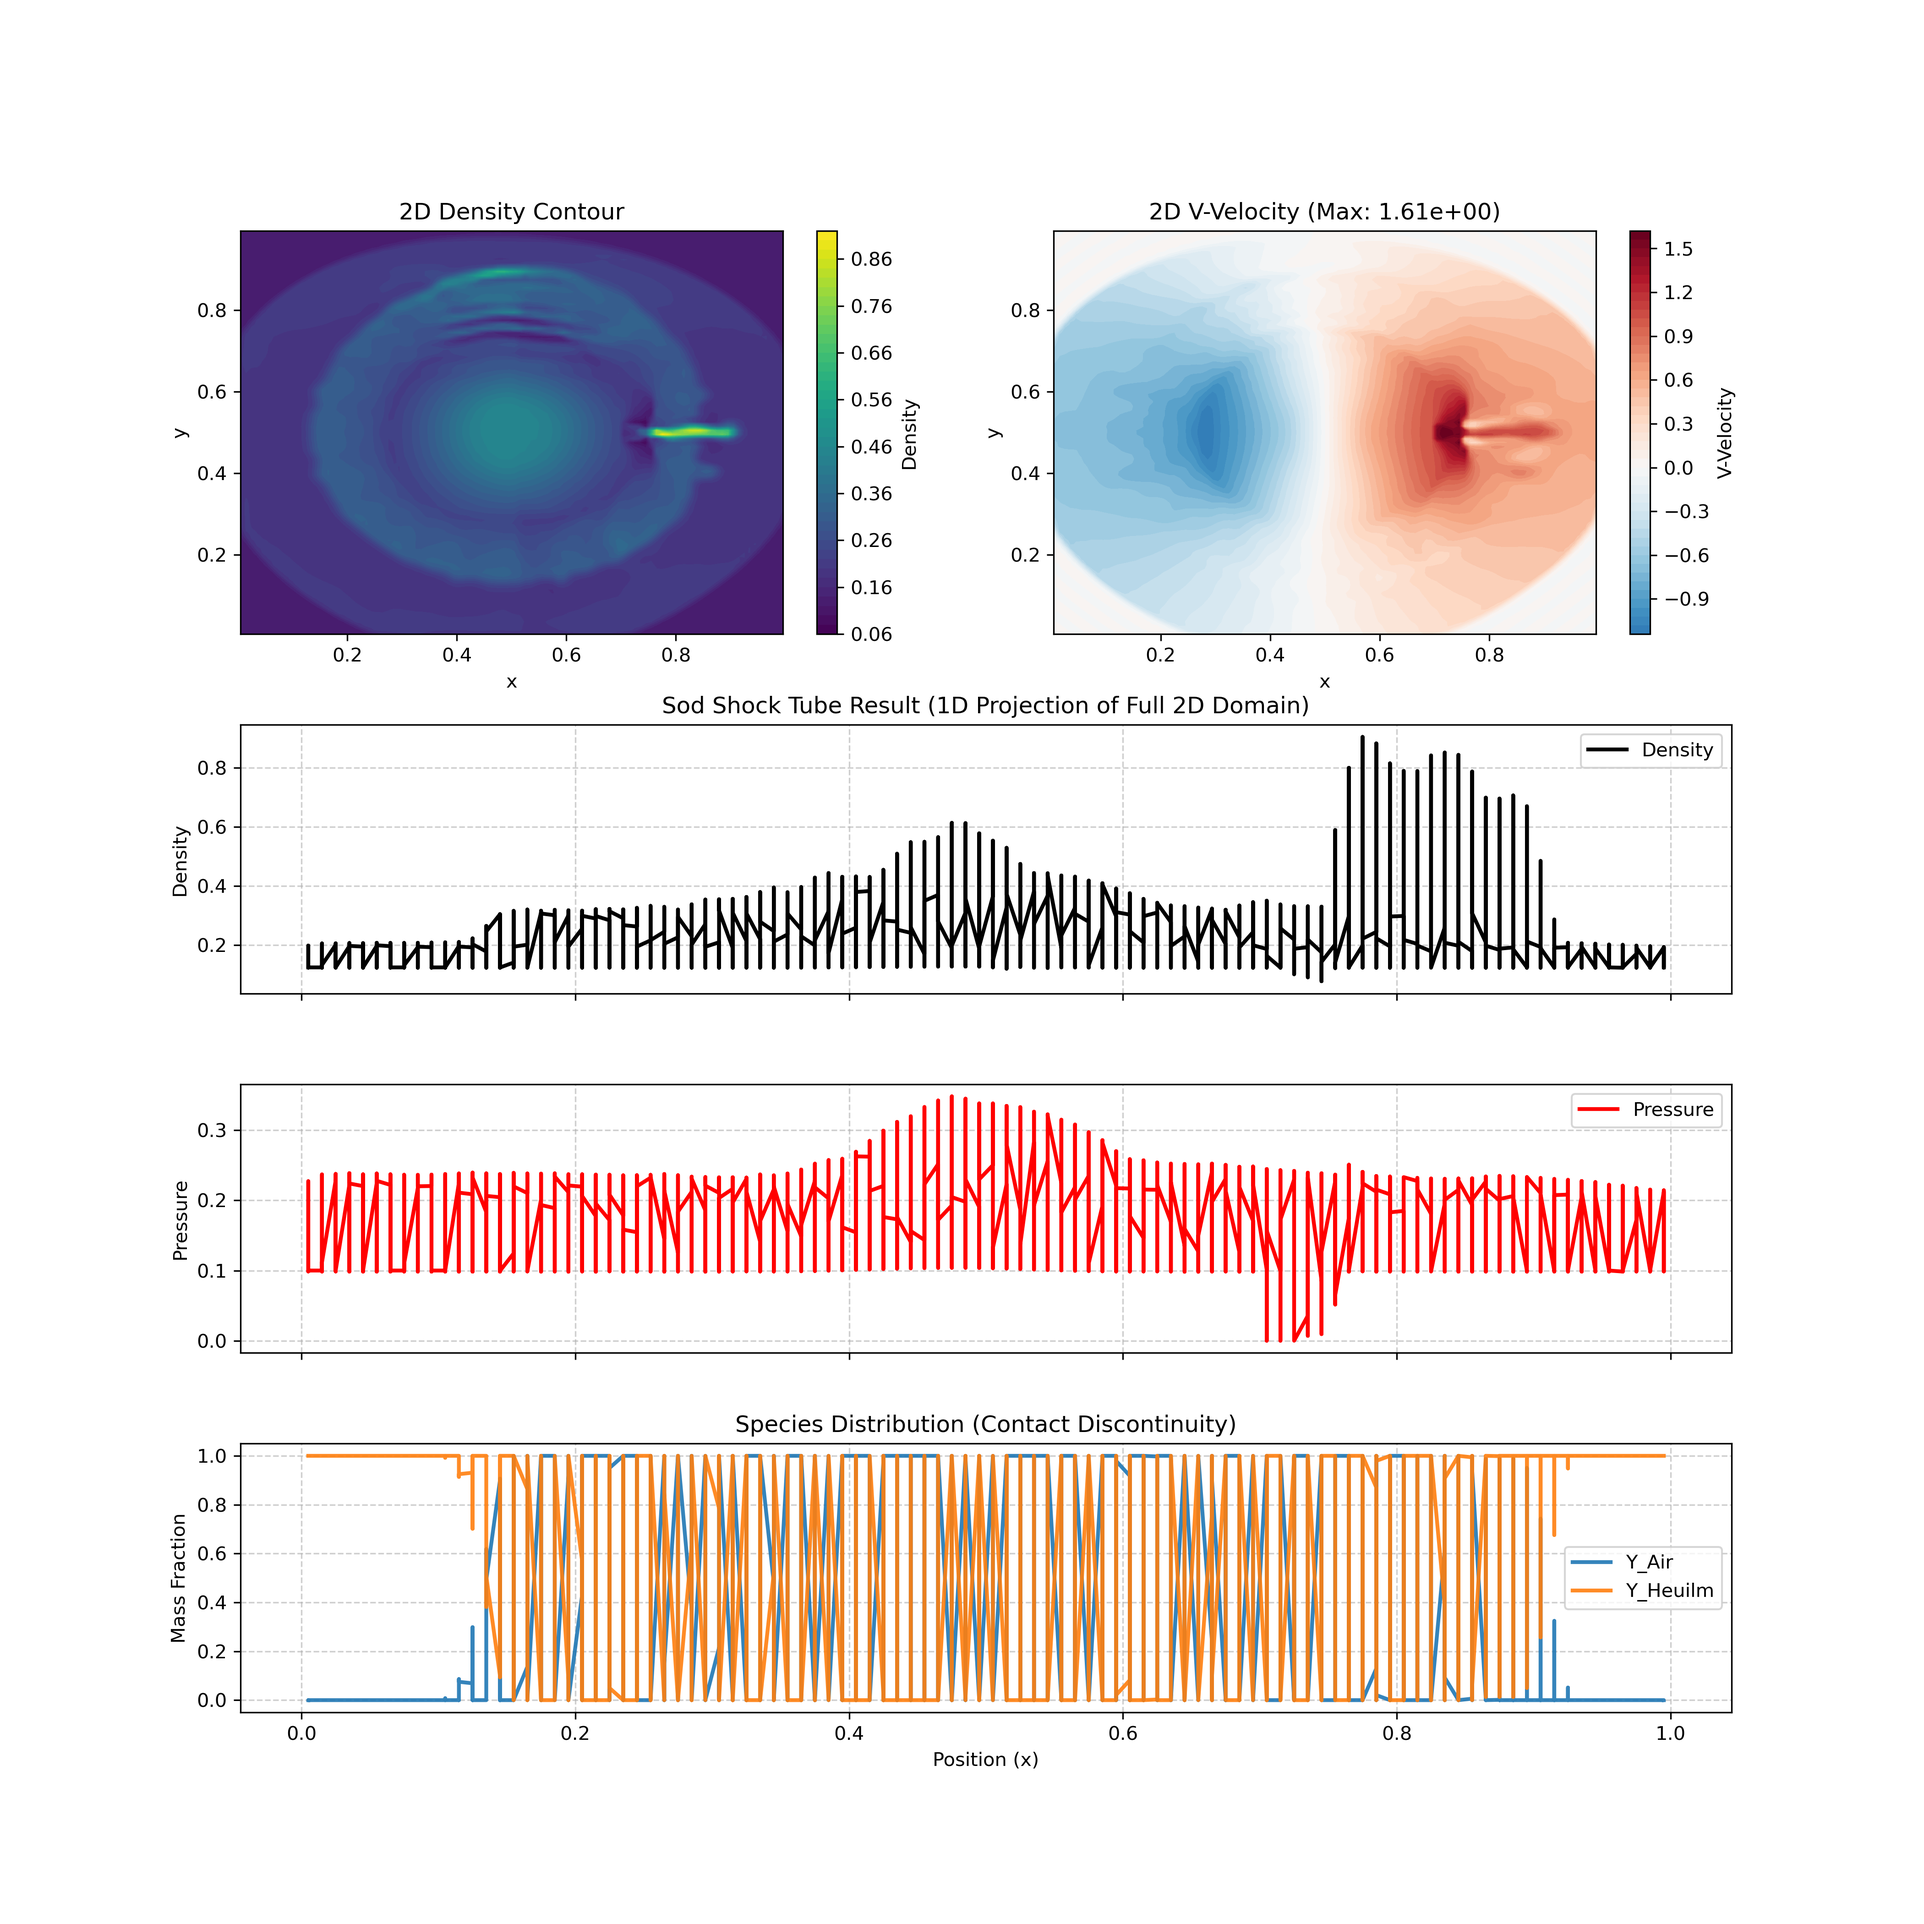
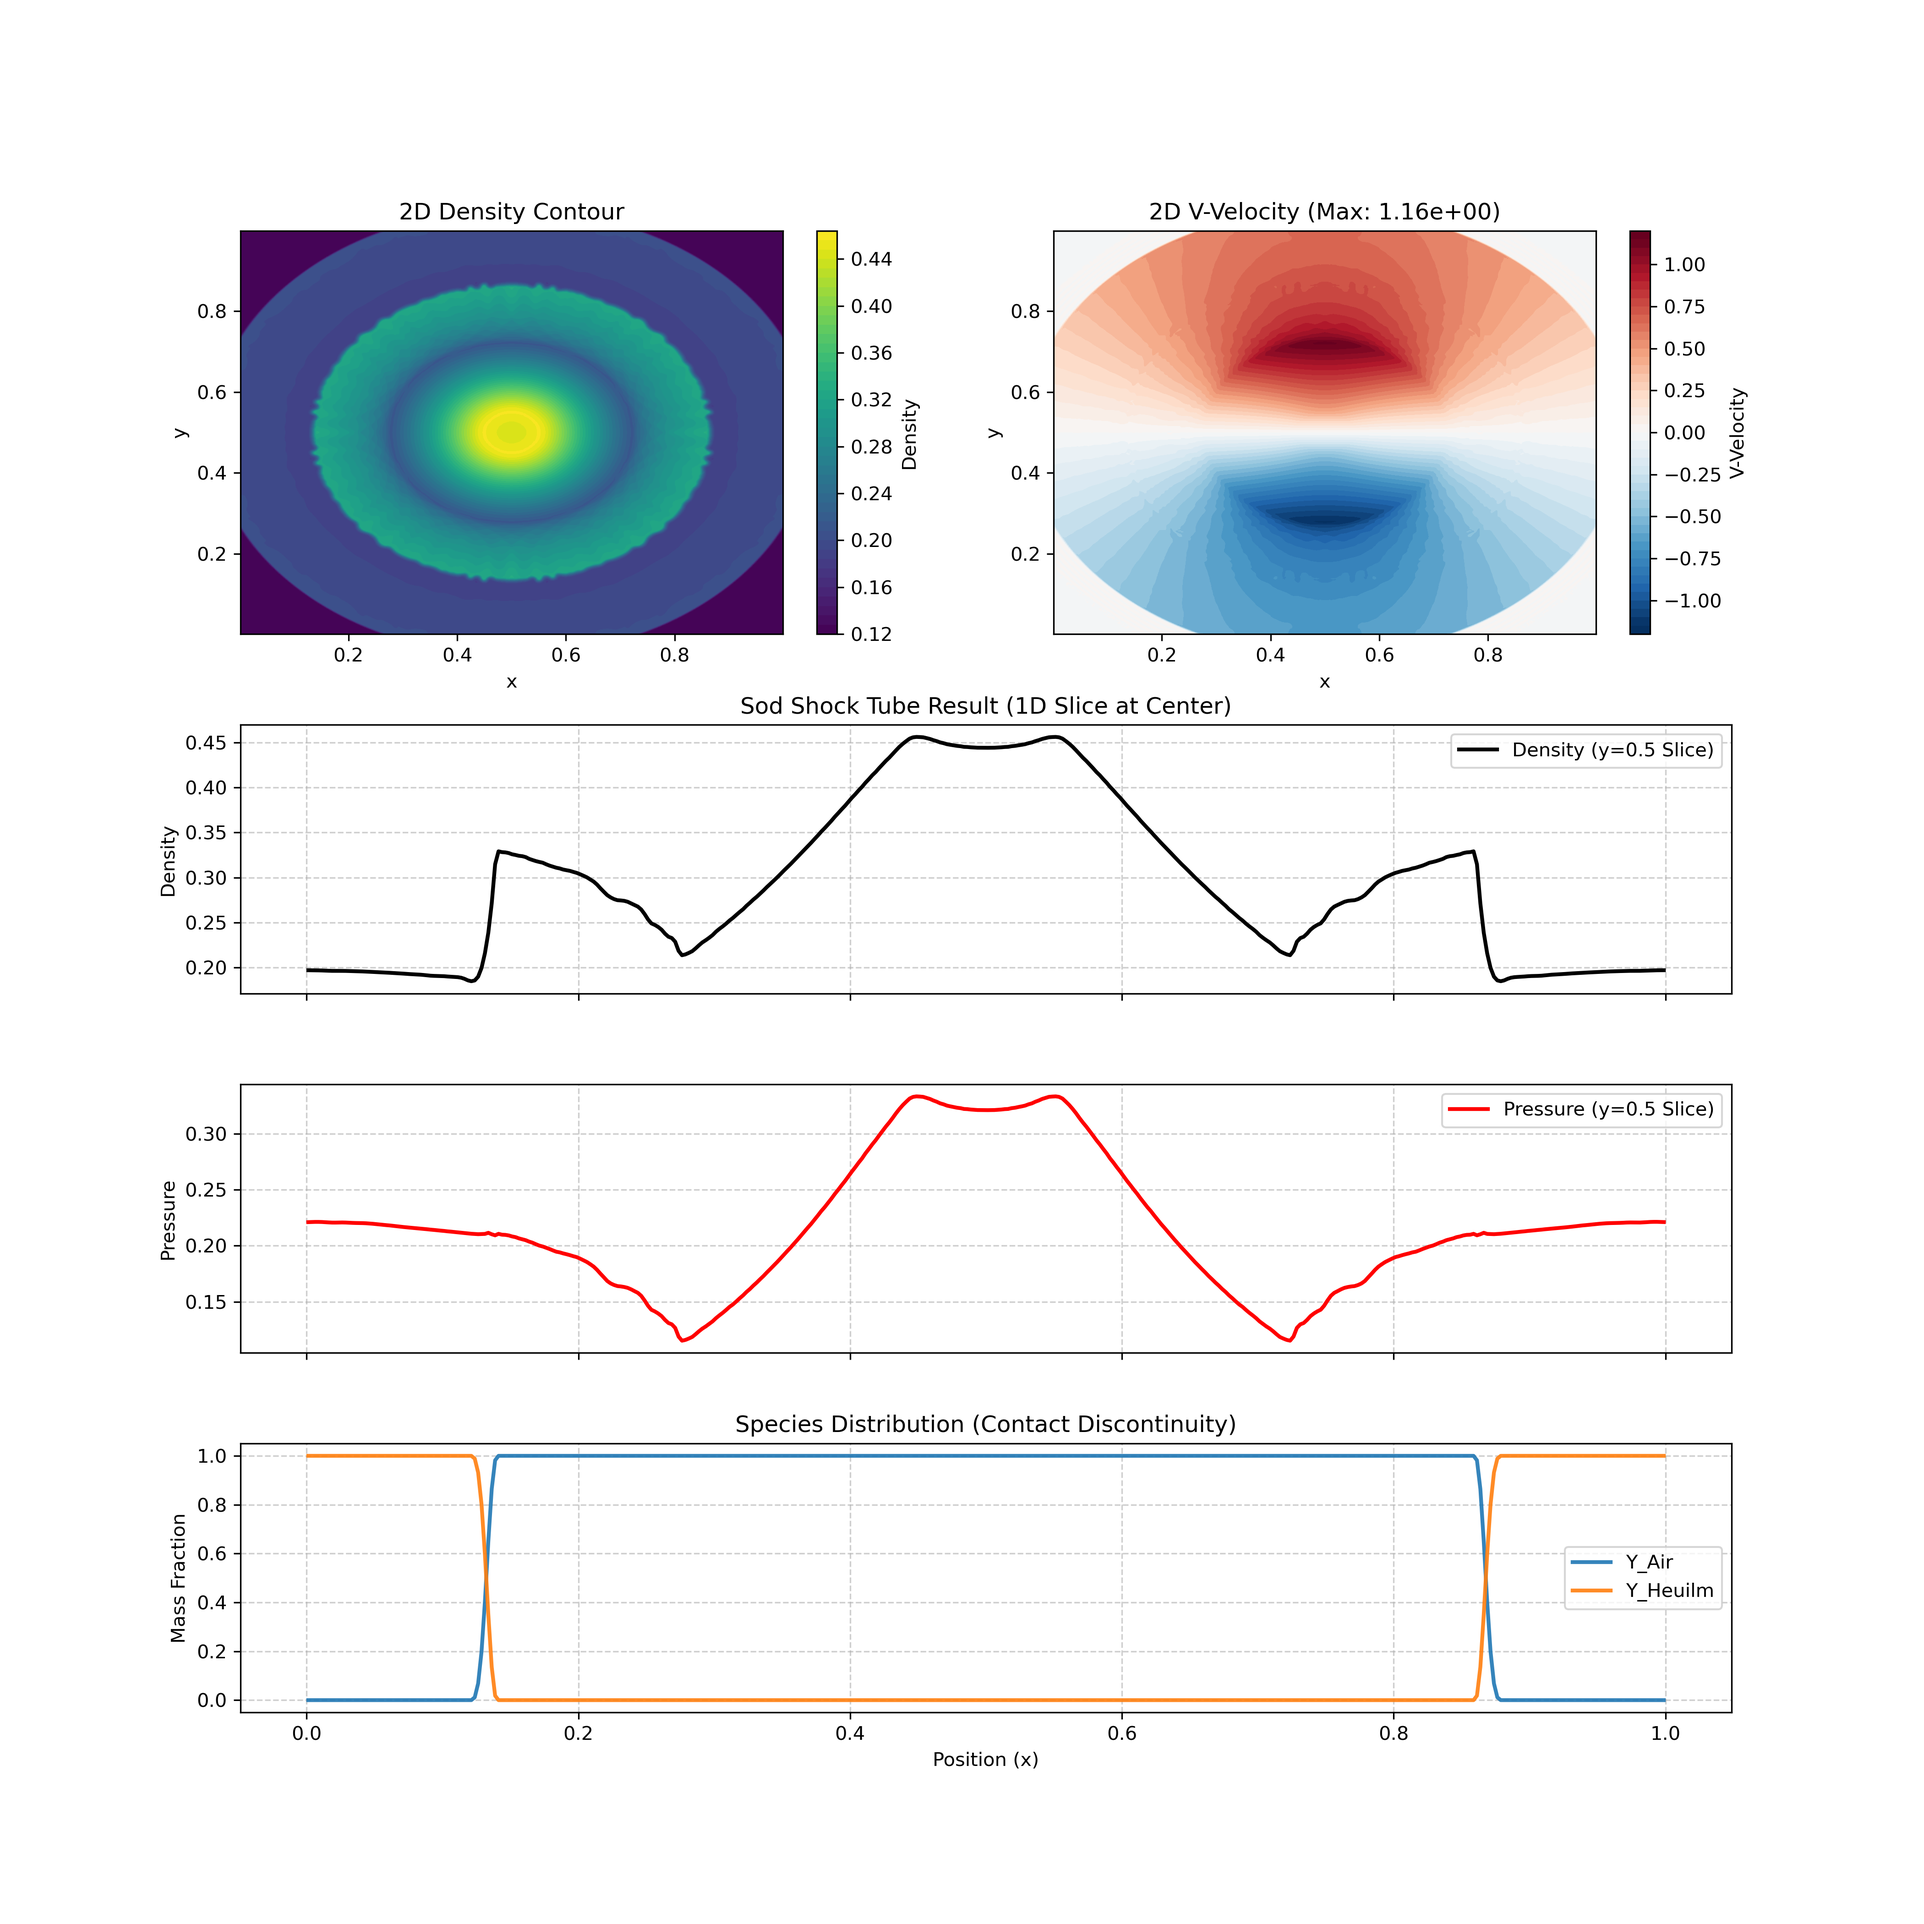
fixed 2 componets R mixed error of EOS

diff --git a/wave_plot.py b/wave_plot.py
@@ -49,21 +49,33 @@ ax1.set_ylabel("y")
 
 ax2 = fig.add_subplot(gs[0, 1])
 if 'v' in df.columns:
-    grid_v = df.pivot(index='y_round', columns='x_round', values='u')
+    grid_v = df.pivot(index='y_round', columns='x_round', values='v')
     v_max = max(abs(grid_v.values.max()), abs(grid_v.values.min()), 1e-10) 
     c2 = ax2.contourf(X, Y, grid_v.values, levels=50, cmap='RdBu_r', vmin=-v_max, vmax=v_max)
     fig.colorbar(c2, ax=ax2, label='V-Velocity')
     ax2.set_title(f"2D V-Velocity (Max: {grid_v.values.max():.2e})")
+
 ax2.set_xlabel("x")
 ax2.set_ylabel("y")
+
+# ==========================================
+# 独立的数据切片提取阶段 (不要放在画图逻辑里面)
+# ==========================================
+center_y = 0.5
+# 找到与 center_y 最接近的 y_round 值（防止浮点精度对不齐）
+closest_y = df['y_round'].iloc[(df['y_round'] - center_y).abs().argmin()]
+
+# 只筛选出这一条切片上的数据，并按 x 排序
+df_slice = df[df['y_round'] == closest_y].sort_values(by='x')
 
 # ==========================================
 # 下半部分：1D 平滑构图 (单轴、全计算域)
 # ==========================================
 # === 1. 密度 ===
 ax3 = fig.add_subplot(gs[1, :])
-ax3.plot(df_sorted['x'], df_sorted['rho'], 'k-', linewidth=2, label='Density')
-ax3.set_title("Sod Shock Tube Result (1D Projection of Full 2D Domain)")
+# 使用 df_slice 而不是 df_sorted
+ax3.plot(df_slice['x'], df_slice['rho'], 'k-', linewidth=2, label='Density (y=0.5 Slice)')
+ax3.set_title("Sod Shock Tube Result (1D Slice at Center)")
 ax3.set_ylabel("Density")
 ax3.grid(True, linestyle='--', alpha=0.6)
 ax3.legend(loc='upper right')
@@ -72,7 +84,7 @@ ax3.legend(loc='upper right')
 # 共享 X 轴，使得拖动或缩放时能对齐
 ax4 = fig.add_subplot(gs[2, :], sharex=ax3)
 if 'p' in df.columns:
-    ax4.plot(df_sorted['x'], df_sorted['p'], 'r-', linewidth=2, label='Pressure')
+    ax4.plot(df_slice['x'], df_slice['p'], 'r-', linewidth=2, label='Pressure (y=0.5 Slice)')
 ax4.set_ylabel("Pressure")
 ax4.grid(True, linestyle='--', alpha=0.6)
 ax4.legend(loc='upper right')
@@ -82,7 +94,7 @@ ax5 = fig.add_subplot(gs[3, :], sharex=ax3)
 colors = ['tab:blue', 'tab:orange', 'tab:green', 'tab:purple']
 for i, col in enumerate(species_cols):
     color = colors[i % len(colors)]
-    ax5.plot(df_sorted['x'], df_sorted[col], '-', linewidth=2, color=color, label=col, alpha=0.9)
+    ax5.plot(df_slice['x'], df_slice[col], '-', linewidth=2, color=color, label=col, alpha=0.9)
 
 ax5.set_title("Species Distribution (Contact Discontinuity)")
 ax5.set_ylabel("Mass Fraction")
@@ -97,7 +109,7 @@ plt.setp(ax4.get_xticklabels(), visible=False)
 
 # --- 4. 保存与展示 ---
 plt.tight_layout()
-out_name = "sod_HLLC_planed.png"
+out_name = "sod_HLLC_circle.png"
 plt.savefig(out_name, dpi=300)
 print(f"Saved: {out_name}")
 plt.show()

diff --git a/src/physics/species/Species.h b/src/physics/species/Species.h
@@ -18,6 +18,7 @@ struct GasProperty
 {
     std::string name; ///< String identifier (e.g., "H2", "O2") for IO.
     double gamma;     ///< Specific Heat Ratio (Cp/Cv), also known as Adiabatic Index.
+    double Cv;        ///< Heat capacity (J/kg.K)
 };
 
 /**
@@ -38,9 +39,9 @@ struct SpeciesManager
      * @param gamma The heat capacity ratio (Cp/Cv).
      * @return int The unique ID assigned to this species (used for array indexing).
      */
-    int add_species(std::string name, double gamma)
+    int add_species(std::string name, double gamma, double Cv)
     {
-        species_list.push_back({name, gamma});
+        species_list.push_back({name, gamma, Cv});
         // The index of the newly added element is size - 1
         return species_list.size() - 1;
     }
@@ -50,7 +51,7 @@ struct SpeciesManager
      * @param id The species index (0 to N-1).
      */
     double get_gamma(int id) const { return species_list[id].gamma; }
-
+    double get_Cv(int id) const { return species_list[id].Cv; }
     /**
      * @brief Returns the total number of registered species.
      * Used to size data arrays (e.g., FluidState::Y).

diff --git a/src/physics/eos/IdealGas.h b/src/physics/eos/IdealGas.h
@@ -52,8 +52,8 @@ struct IdealGas
         {
             return global_gamma;
         }
-
-        double sum_inv_gamma_minus_1 = 0.0;
+        double sum_Yi_Cv = 0.0;
+        double sum_Yi_Cv_gm1 = 0.0;
 
         for (int k = 0; k < manager.count(); ++k)
         {
@@ -61,15 +61,17 @@ struct IdealGas
             if (Yi[k] > 1e-12)
             {
                 double gamma_i = manager.get_gamma(k);
-                sum_inv_gamma_minus_1 += Yi[k] / (gamma_i - 1.0);
+                double Cv_i = manager.get_Cv(k);
+                sum_Yi_Cv += Yi[k] * Cv_i;
+                sum_Yi_Cv_gm1 += Yi[k] * Cv_i * (gamma_i - 1.0);
             }
         }
         // Safety: If mass fractions are all zero (vacuum) or math fails
-        if (sum_inv_gamma_minus_1 < 1e-9)
+        if (sum_Yi_Cv < 1e-12)
             return global_gamma;
 
         // Invert back to get gamma_mix
-        return 1.0 / sum_inv_gamma_minus_1 + 1.0;
+        return (sum_Yi_Cv_gm1 / sum_Yi_Cv) + 1.0;
     }
 
     /**

diff --git a/simulation/Sod/Sod.cpp b/simulation/Sod/Sod.cpp
@@ -52,12 +52,14 @@ void Sod_Setup(SimConfig &config, SpeciesManager &specs)
     // [3. Setup Species]
     std::string name_L = config.Get<std::string>("name_left", "Air");
     double gamma_L = config.Get<double>("gamma_left", 1.4);
+    double Cv_L = config.Get<double>("cv_left", 717.5);
 
     std::string name_R = config.Get<std::string>("name_right", "Helium");
     double gamma_R = config.Get<double>("gamma_right", 1.67);
+    double Cv_R = config.Get<double>("cv_right", 3113.9);
 
-    g_species_id_L = specs.add_species(name_L, gamma_L);
-    g_species_id_R = specs.add_species(name_R, gamma_R);
+    g_species_id_L = specs.add_species(name_L, gamma_L, Cv_L);
+    g_species_id_R = specs.add_species(name_R, gamma_R, Cv_R);
 
     // Console Output for Validation
     std::cout << "[Problem] Setup complete. Type: ";

diff --git a/src/numerics/reconstruction/Reconstruction.h b/src/numerics/reconstruction/Reconstruction.h
@@ -338,7 +338,7 @@ public:
         UL.mom_y = rho_L * v_L;
         UL.mom_z = rho_L * w_L;
         // Total Energy = rho * (epsilon + 0.5 * u^2)
-        UL.eng = rho_L * (eps_L + 0.5 * u_L * u_L);
+        UL.eng = rho_L * (eps_L + 0.5 * (u_L * u_L + v_L * v_L + w_L * w_L));
 
         // Right State
         UR.rho = rho_R;
